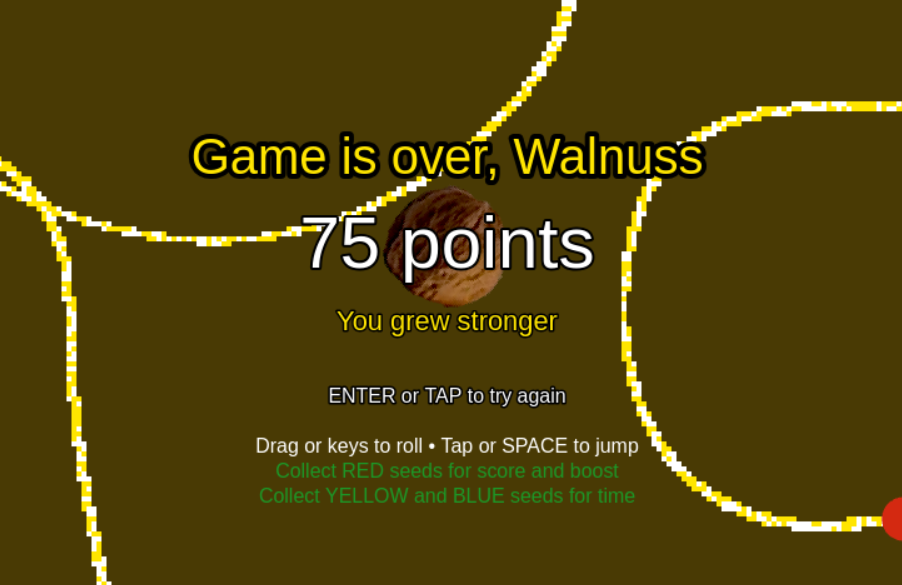
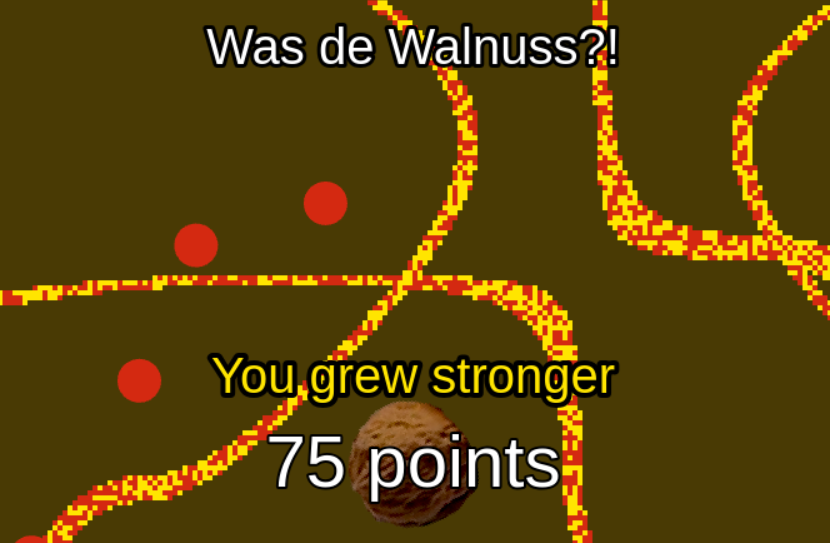
Colors and texts

diff --git a/game.js b/game.js
@@ -6,7 +6,7 @@ const bernGreen = hsl(.35, .7, .35);
 const bernWhite = rgb(1, 1, 1);
 const bernBlue = hsl(.15, .7, .5);
 
-const rColor = bernWhite; //hsl(0, 1, 0.5);
+const rColor = bernRed; //hsl(0, 1, 0.5);
 const lColor = bernYellow; //hsl(0, 0.9, 0.5);
 
 const backgroundColor = hsl(.13, .9, .15);
@@ -19,12 +19,12 @@ const pointerMaxRadius = 120;
 const pointerTapDistance = 20;
 const pointerTapTime = .35;
 
-const startTime = 12;
+const startTime = 10;
 const startSize = 60;
 const startObjects = 30;
 const gameOverFreeze = 2;
 
-const jumpDuration = .5;
+const jumpDuration = .8;
 const jumpSpeed = 300;
 
 let walnutTile;
@@ -35,7 +35,7 @@ async function gameInit()
 {
     setShowSplashScreen(true);
     setCanvasClearColor(backgroundColor);
-    screenZoom = 2; //isTouchDevice ? 2 : 1;
+    screenZoom = isTouchDevice ? 2 : 1;
     if (screenZoom !== 1)
     {
         const zoomedSize = mainCanvasSize.scale(1 / screenZoom);
@@ -259,36 +259,37 @@ function gameRender()
 
     // Squash and stretch the walnut through the jump for a fluid feel
     const jumpProgress = walnut.jumpTimer > 0 ? 1 - walnut.jumpTimer / jumpDuration : 0;
-    const jumpScale = 1 + Math.sin(jumpProgress * PI) * 0.18;
+    const jumpScale = 1 + Math.sin(jumpProgress * PI) * 0.3;
     drawTile(walnut.pos, vec2(walnut.size, walnut.size).scale(jumpScale), walnutTile, WHITE, walnut.angle);
 
-    drawTextScreen("Was de Walnuss?!", vec2(mainCanvasSize.x / 2, 40), 40 - timer.get()*4, WHITE, 6);
+    drawTextScreen("Was de Walnuss?!", vec2(mainCanvasSize.x / 2, 40), 40 - timer.get()*8, WHITE, 6);
     drawTextScreen("" + score
       //+ "  •  SIZE " + (walnut.size - 59)
-      + "  •  ⏱ " + round(-1 * timer.get())
+      + "  •  ⏱ " + max(0, round(-1 * timer.get()))
       + "  •  PWR " + '★'.repeat(damage)
       , vec2(mainCanvasSize.x / 2, mainCanvasSize.y - 40), 30, WHITE, 3);
 
-    if (timer.elapsed() || !timer.active() || timer.get() > -1)
+    if (timer.elapsed() || !timer.active())
     {
         //drawRect(vec2(0, 0), mainCanvasSize, hsl(0, 0, 0, .6));
-        message = score < 50 ? "Tiny seed, keep rolling" : (score < 100 ? "You grew stronger" : "Well done, Walnuss");
+        const message = score < 50 ? "Tiny seed, keep rolling" : (score < 100 ? "You grew stronger" : "Well done, Walnuss");
         drawTextScreen(message, vec2(mainCanvasSize.x / 2, mainCanvasSize.y / 2 - 70), 40, bernYellow, 8);
         drawTextScreen("" + score + " points", vec2(mainCanvasSize.x / 2, mainCanvasSize.y / 2), 58, WHITE, 4);
 
         const frozen = time - gameOverTime < gameOverFreeze;
         if (frozen)
         {
-            const countdown = Math.ceil(gameOverFreeze - (time - gameOverTime));
-            drawTextScreen("Get ready... " + countdown, vec2(mainCanvasSize.x / 2, mainCanvasSize.y / 2 + 120), 16, WHITE, 3);
+            const ctimer = Math.ceil(gameOverFreeze - (time - gameOverTime));
+            const countdown = ctimer > 1 ? "Get ready ..." : "Steady ..";
+            drawTextScreen(countdown, vec2(mainCanvasSize.x / 2, mainCanvasSize.y / 2 + 120), 30, WHITE, 3);
         }
         else
         {
             drawTextScreen("ENTER or TAP to try again", vec2(mainCanvasSize.x / 2, mainCanvasSize.y / 2 + 120), 16, WHITE, 3);
+            drawTextScreen("Drag or keys to roll • Tap or SPACE to jump", vec2(mainCanvasSize.x / 2, mainCanvasSize.y / 2 + 160), 16, bernGreen);
+            drawTextScreen("Collect RED seeds for score and boost", vec2(mainCanvasSize.x / 2, mainCanvasSize.y / 2 + 180), 16, bernGreen);
+            drawTextScreen("Collect YELLOW and BLUE seeds for time", vec2(mainCanvasSize.x / 2, mainCanvasSize.y / 2 + 200), 16, bernGreen);
         }
-        drawTextScreen("Drag or keys to roll • Tap or SPACE to jump", vec2(mainCanvasSize.x / 2, mainCanvasSize.y / 2 + 160), 16, WHITE);
-        drawTextScreen("Collect RED seeds for score and boost", vec2(mainCanvasSize.x / 2, mainCanvasSize.y / 2 + 180), 16, bernGreen);
-        drawTextScreen("Collect YELLOW and BLUE seeds for time", vec2(mainCanvasSize.x / 2, mainCanvasSize.y / 2 + 200), 16, bernGreen);
 
         timer.unset();
     }
